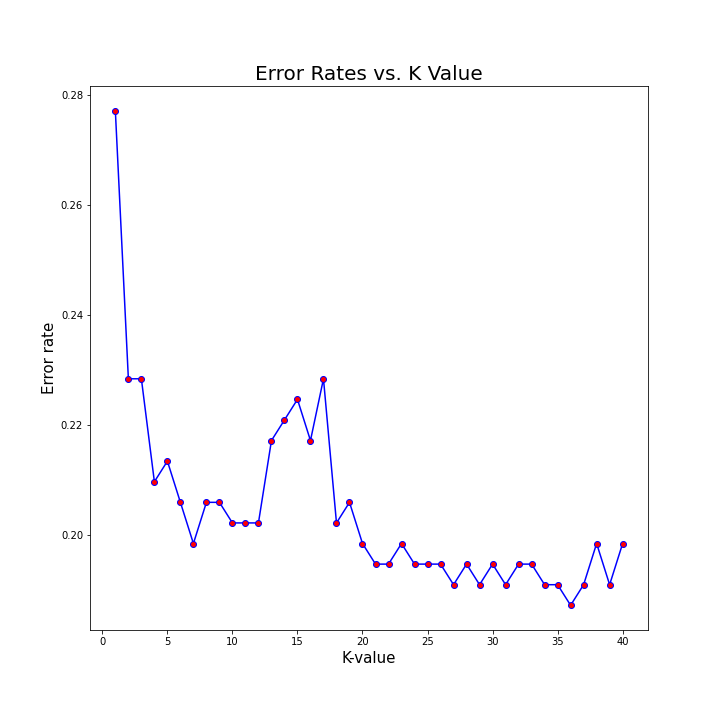
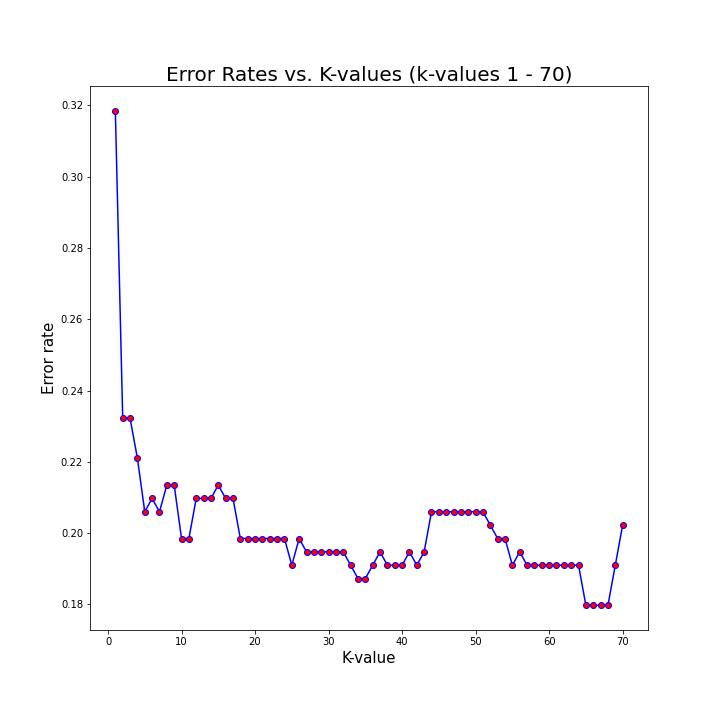
Updated and renamed multiple files

diff --git a/python/fit_model_scaler.py b/python/fit_model_scaler.py
@@ -10,33 +10,30 @@ import numpy as np
 import pandas as pd
 import matplotlib.pyplot as plt
 import seaborn as sns
+import joblib
 
 from sklearn.model_selection import train_test_split
 from sklearn.metrics import classification_report, confusion_matrix
-from sklearn.preprocessing import StandardScaler
+from sklearn.preprocessing import MinMaxScaler
 from sklearn.compose import ColumnTransformer
 from sklearn.neighbors import KNeighborsClassifier
-from sklearn.linear_model import LogisticRegression
 
 # Read data
 df = pd.read_csv('../data/titanic_cleaned.csv', index_col=0)
 
-# Scale the data
-def min_max_scaling(column):
-    return (column - column.min()) / (column.max() - column.min())
-
-df_norm = df
-df_norm['Age'] = min_max_scaling(df_norm['Age'])
-df_norm['SibSp'] = min_max_scaling(df_norm['SibSp'])
-df_norm['Parch'] = min_max_scaling(df_norm['Parch'])
-df_norm['Fare'] = min_max_scaling(df_norm['Fare'])
-
-
 # Split in training and testsets
-x_train, x_test, y_train, y_test = train_test_split(df_norm.drop('Survived', axis=1),
-                                                    df_norm['Survived'],
+x_train, x_test, y_train, y_test = train_test_split(df.drop('Survived', axis=1),
+                                                    df['Survived'],
                                                     test_size=0.30,
                                                     random_state=42)
+
+# Normalize the x data
+scaler = MinMaxScaler()
+scaler.fit(x_train)
+x_train[:] = scaler.fit_transform(x_train)
+x_test[:] = scaler.fit_transform(x_test)
+
+
 
 '''
 K-Nearest Neighbors
@@ -57,7 +54,7 @@ print('Allround score: ', round(knn_model_one.score(x_train, y_train) * 100, 2),
 # Testing multiple k-values
 error_rates = []
 
-for i in range(1,41): # calculate error rates
+for i in range(1,71): # calculate error rates
     knn = KNeighborsClassifier(n_neighbors=i)
     knn.fit(x_train, y_train)
     pred = knn.predict(x_test)
@@ -65,8 +62,8 @@ for i in range(1,41): # calculate error rates
 
 
 plt.figure(figsize=(10,10))
-plt.plot(range(1,41), error_rates, color="blue", marker='o', markerfacecolor='red')
-plt.title('Error Rates vs. K Value', size=20)
+plt.plot(range(1,71), error_rates, color="blue", marker='o', markerfacecolor='red')
+plt.title('Error Rates vs. K-values (k-values 1 - 70)', size=20)
 plt.xlabel('K-value', size=15)
 plt.ylabel('Error rate', size=15)
 #plt.savefig('../plots/knn_errorrates.png')
@@ -74,26 +71,51 @@ plt.ylabel('Error rate', size=15)
 plt.close()
 
 
-# Make new model with k=36
-knn_model_two = KNeighborsClassifier(n_neighbors=36)
+# Make new model with k=63
+knn_model_two = KNeighborsClassifier(n_neighbors=63)
 knn_model_two.fit(x_train, y_train)
 prediction_a = knn_model_two.predict(x_test)
 
 # Evaluate model
-print('\nEVALUATION OF SECOND MODEL (k=36):\n')
+print('\nEVALUATION OF SECOND MODEL (k=63):\n')
 print('Classification report:\n', classification_report(y_test, prediction_a), '\n')
 print('Confusion matrix:\n', confusion_matrix(y_test, prediction_a), '\n')
 print('Allround score: ', round(knn_model_two.score(x_train, y_train) * 100, 2), '\n')
 
+
+'''
+Save the model and scaler to files
+'''
+filename_model = '../model_and_scaler/knn_titanic_model.sav'
+joblib.dump(knn_model_two, filename_model)
+
+filename_scaler = '../model_and_scaler/knn_titanic_scaler.sav'
+joblib.dump(scaler, filename_scaler)
+
+
+
+
+
 '''
 Add new data and predict
 '''
+print(x_train.columns)
+toms_data = {'Pclass':3, 'Age':30, 'SibSp':1, 'Parch':0, 'Fare':14, 'male':1, 'Q':1, 'S':0}
+new_data = np.array([3, 30, 1, 0, 14, 1, 1, 0])
+new_data = new_data.reshape(1, -1)
+new_data = scaler.transform(new_data)
 
-#toms_data = {'Pclass':3, 'Age':30, 'SibSp':1, 'Parch':0, 'Fare':14, 'male':1, 'Q':1, 'S':0}
-tom_array = np.array([3,30,1,0,14,1,1,0])
-tom_array = tom_array.reshape(1, -1)
+new_pred = knn_model_two.predict(new_data)
 
-toms_rediction = knn_model_two.predict(tom_array)
+if new_pred[0] == 0:
+    print('YOU DIED')
+elif new_pred[0] == 1:
+    print('You survived')
+else:
+    print('Something went wrong')
+
+
+    
 
 
 

diff --git a/README.md b/README.md
@@ -1,3 +1,14 @@
 # Would I have survived the Titanic?
 
-A classification project with passenger data from the most famous shipwreck. 
+A classification project with passenger data from the most famous shipwreck. The project is described in [this](https://tomkral.nl/projects/Titanic/titanic.html) article. I have multiple script that each contain steps for my research. 
+
+### clean_and_EDA.py
+This script has two primary tasks:
+1. **Clean data:** Raw data is taken in and missing values are deleted. This is also explored with a graph.
+2. **Exploratory data analysis:** The data is explored and visualized to gain more insights prior to making a model
+
+This script has several plots and graphs as output. It also makes a new .csv file with the cleaned data.
+
+
+### fit_model_scaler.py
+First, the data is scaled with a min-max-scaler to have all data on the same scale. Second, a suitable __k-value__ is calculated and used to make a k-Nearest Neighbor model. Lastly, both the scaler and model are exported as objects to be loaded later. These can be used in the [webapp](https://github.com/thjkral/titanic_webapp) or in other scrits.
